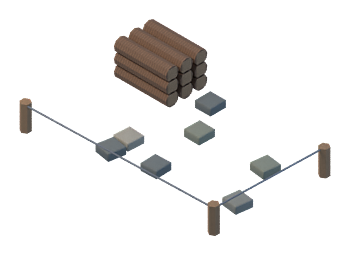
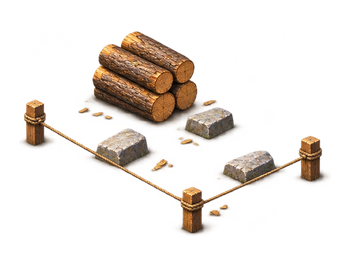
art(valoria): align the worksite stages and Corona HUD with the illustrated sawmill
Fit the actual 1036:260 and 1665:260 painted frames, use the authored wide material for details, and keep the player and wallet together on rotation. Use HUD bounds for world label visibility. Keep sprite footprints, pivots, state transitions and game rules intact.

Changed region(s): [[0.0571, 0.0549, 0.9429, 0.9333]]

diff --git a/Unity/Assets/Experimentos/ValoriaModular25D/Scripts/Modular25DInterface.cs b/Unity/Assets/Experimentos/ValoriaModular25D/Scripts/Modular25DInterface.cs
@@ -31,7 +31,7 @@ namespace Eldoria.Experimentos.ValoriaModular25D
         private static readonly Color32 Green = new Color32(80, 209, 195, 255);
         private static readonly Color32 Red = new Color32(184, 84, 120, 255);
 
-        private static Sprite slatePlate, parchmentPlate, actionPlate, resourcePlate, portraitPlate, burgundyPlate, identityPlate, navPlate, topVelvetPlate, activityPanelPlate;
+        private static Sprite slatePlate, actionPlate, resourcePlate, portraitPlate, burgundyPlate, navPlate, topVelvetPlate, activityPanelPlate;
         private static Sprite woodIcon, stoneIcon, foodIcon, hammerIcon, cityIcon, taskIcon;
         private static Texture2D originalIconAtlas;
         private Modular25DGameplay gateway;
@@ -77,9 +77,8 @@ namespace Eldoria.Experimentos.ValoriaModular25D
             hudCanvas.pixelPerfect=true;
             var scaler = root.GetComponent<CanvasScaler>();
             scaler.uiScaleMode = CanvasScaler.ScaleMode.ScaleWithScreenSize;
-            scaler.referenceResolution = new Vector2(390f, 844f);
-            scaler.screenMatchMode = CanvasScaler.ScreenMatchMode.MatchWidthOrHeight;
-            scaler.matchWidthOrHeight = .3f;
+            scaler.referenceResolution = new Vector2(390f, 390f);
+            scaler.screenMatchMode = CanvasScaler.ScreenMatchMode.Expand;
             var rootTransform = root.transform;
 
             // One continuous 46-point ribbon shares player name and wallet.
@@ -92,11 +91,11 @@ namespace Eldoria.Experimentos.ValoriaModular25D
                 new Vector2(.5f,0f),new Vector2(.5f,0f),
                 Vector2.zero,new Vector2(365f,1.2f));
             topRibbonHairline.GetComponent<Image>().color=new Color32(175,132,72,55);
-            identity = Plate("Valoria identity", rootTransform, identityPlate,
+            identity = Plate("Valoria identity", rootTransform, null,
                 new Vector2(0f, 1f), new Vector2(0f, 1f), new Vector2(6f, -6f),
                 new Vector2(102f, 44f));
             var sigil = Plate("Sir Aldric portrait bezel", identity, portraitPlate,
-                new Vector2(0f, .5f), new Vector2(.5f, .5f), new Vector2(18f,0f),
+                new Vector2(0f, .5f), new Vector2(.5f, .5f), new Vector2(24f,0f),
                 new Vector2(35f,35f));
             var aldricAvatar=Resources.Load<Sprite>(
                 "ValoriaModular25D/UI/UmbralII/aldric_avatar");
@@ -111,13 +110,13 @@ namespace Eldoria.Experimentos.ValoriaModular25D
             // Real PlayerState.PlayerName is the user-selected name. Valoria
             // remains a fallback only for an older unnamed test save.
             title = Label("VALORIA", identity, 14, true, WarmWhite, TextAnchor.MiddleLeft,
-                new Vector2(26f,7f),new Vector2(42f,22f));
+                new Vector2(26f,6f),new Vector2(42f,23f));
             title.resizeTextForBestFit=true;
             title.resizeTextMinSize=10;
             title.resizeTextMaxSize=14;
-            title.horizontalOverflow=HorizontalWrapMode.Overflow;
+            title.horizontalOverflow=HorizontalWrapMode.Wrap;
             level = Label("BAST. 1", identity, 9, false, PaleGold, TextAnchor.MiddleLeft,
-                new Vector2(26f,-10f),new Vector2(42f,16f));
+                new Vector2(26f,-9f),new Vector2(42f,16f));
             // SourceSans line metrics exceed the 20px legacy plate: Truncate
             // silently discarded all small-glyph geometry in actual WebGL.
             // Let ascenders/descenders use the designed clear lower half.
@@ -138,30 +137,30 @@ namespace Eldoria.Experimentos.ValoriaModular25D
             // camera and point only to canonical, currently implemented UI.
             bastionTag=ButtonPlate("Bastion world nameplate",rootTransform,"BASTIÓN · I",
                 slatePlate,new Vector2(.5f,.5f),new Vector2(.5f,.5f),
-                Vector2.zero,new Vector2(110f,49f),OpenStatus).GetComponent<RectTransform>();
+                Vector2.zero,new Vector2(slatePlate.rect.width * 44f / slatePlate.rect.height, 44f),OpenStatus).GetComponent<RectTransform>();
             bastionTagText=bastionTag.GetComponentInChildren<Text>(true);
-            bastionTagText.fontSize=11;
+            bastionTagText.fontSize=14;
             bastionTagText.color=PaleGold;
             // Building nameplates are wayfinding, NOT a second enormous
             // turquoise Build CTA. The actual action stays in the real modal.
             // Keep the two original art plates short/readable in world-space.
             var keepGlyph=Plate("Bastion nameplate original icon",bastionTag,cityIcon,
                 new Vector2(.5f,.5f),new Vector2(.5f,.5f),
-                new Vector2(-42f,0f),new Vector2(18f,18f));
+                new Vector2(-48f,0f),new Vector2(23f,23f));
             keepGlyph.GetComponent<Image>().preserveAspect=true;
             bastionTagText.rectTransform.anchoredPosition=new Vector2(10f,0f);
-            bastionTagText.rectTransform.sizeDelta=new Vector2(78f,28f);
+            bastionTagText.rectTransform.sizeDelta=new Vector2(100f,28f);
             sawmillTag=ButtonPlate("Sawmill world nameplate",rootTransform,"ASERRADERO",
                 slatePlate,new Vector2(.5f,.5f),new Vector2(.5f,.5f),
-                Vector2.zero,new Vector2(112f,50f),OpenSawmill).GetComponent<RectTransform>();
+                Vector2.zero,new Vector2(slatePlate.rect.width * 44f / slatePlate.rect.height, 44f),OpenSawmill).GetComponent<RectTransform>();
             sawmillTagText=sawmillTag.GetComponentInChildren<Text>(true);
-            sawmillTagText.fontSize=11;
+            sawmillTagText.fontSize=14;
             sawmillTagText.color=PaleGold;
             sawmillTagText.rectTransform.anchoredPosition=new Vector2(12f,0f);
-            sawmillTagText.rectTransform.sizeDelta=new Vector2(80f,30f);
+            sawmillTagText.rectTransform.sizeDelta=new Vector2(100f,30f);
             var sawmillGlyph=Plate("Sawmill nameplate original icon",sawmillTag,hammerIcon,
                 new Vector2(.5f,.5f),new Vector2(.5f,.5f),
-                new Vector2(-43f,0f),new Vector2(18f,18f));
+                new Vector2(-48f,0f),new Vector2(23f,23f));
             sawmillGlyph.GetComponent<Image>().preserveAspect=true;
             // Visible AFTER the successful Build auto-dismiss: real progress
             // belongs on the construction parcel, not a persistent modal.
@@ -209,17 +208,17 @@ namespace Eldoria.Experimentos.ValoriaModular25D
                 new Vector2(0f,.5f),new Vector2(0f,.5f),
                 new Vector2(54f,0f),new Vector2(246f,185f));
             activityTitle=Label("TAREAS",activityDrawer,16,true,PaleGold,
-                TextAnchor.MiddleCenter,new Vector2(0f,69f),new Vector2(198f,25f));
+                TextAnchor.MiddleCenter,new Vector2(0f,49f),new Vector2(198f,25f));
             objective.SetParent(activityDrawer,false);
             objective.anchorMin=objective.anchorMax=new Vector2(.5f,.5f);
             objective.pivot=new Vector2(.5f,.5f);
             objective.anchoredPosition=new Vector2(0f,9f);
             activityProgress=Label("ASERRADERO",activityDrawer,13,false,WarmWhite,
-                TextAnchor.MiddleCenter,new Vector2(0f,-48f),new Vector2(198f,24f));
+                TextAnchor.MiddleCenter,new Vector2(0f,-39f),new Vector2(198f,24f));
             activityProgress.verticalOverflow=VerticalWrapMode.Overflow;
             activityTrack=Plate("Activity real construction track",activityDrawer,null,
                 new Vector2(.5f,.5f),new Vector2(.5f,.5f),
-                new Vector2(0f,-67f),new Vector2(178f,7f));
+                new Vector2(0f,-59f),new Vector2(178f,7f));
             activityTrack.GetComponent<Image>().color=new Color32(20,13,38,232);
             activityFill=Plate("Activity canonical construction fill",activityTrack,null,
                 new Vector2(0f,.5f),new Vector2(0f,.5f),
@@ -236,7 +235,7 @@ namespace Eldoria.Experimentos.ValoriaModular25D
 
             // Context sheet uses warm architectural parchment, a real sprite
             // from the experiment, and original data. Not a generic modal.
-            sheet = Plate("Sawmill parchment sheet", rootTransform, parchmentPlate,
+            sheet = Plate("Sawmill parchment sheet", rootTransform, activityPanelPlate,
                 new Vector2(.5f, 0f), new Vector2(.5f, 0f), new Vector2(0f, 110f),
                 new Vector2(355f, 244f));
             buildingSheet = sheet.gameObject;
@@ -246,12 +245,12 @@ namespace Eldoria.Experimentos.ValoriaModular25D
                 new Vector2(-30f, 61f), new Vector2(200f, 17f));
             AccentHairline("Divider", sheet, AntiqueBrass,
                 new Vector2(0f, 44f), new Vector2(270f, 1.5f));
-            var previewPlate = Plate("Architectural preview", sheet, portraitPlate,
-                new Vector2(.5f, .5f), new Vector2(.5f, .5f), new Vector2(-84f, -6f),
+            var previewPlate = Plate("Architectural preview", sheet, null,
+                new Vector2(.5f, .5f), new Vector2(.5f, .5f), new Vector2(-88f, -2f),
                 new Vector2(96f, 99f));
             var view = Plate("Real illustrated sawmill", previewPlate, null,
                 new Vector2(.5f, .5f), new Vector2(.5f, .5f), Vector2.zero,
-                new Vector2(93f, 94f));
+                new Vector2(103f, 100f));
             var preview = view.GetComponent<Image>();
             preview.sprite = Modular25DArt.Sawmill();
             preview.preserveAspect = true;
@@ -284,7 +283,7 @@ namespace Eldoria.Experimentos.ValoriaModular25D
             constructionProgressRoot.gameObject.SetActive(false);
             action = ButtonPlate("Execute canonical Build command", sheet, "CONSTRUIR",
                 actionPlate, new Vector2(.5f, .5f), new Vector2(.5f, .5f),
-                new Vector2(0f, -80f), new Vector2(118f, 53f),
+                new Vector2(0f, -80f), new Vector2(actionPlate.rect.width * 44f / actionPlate.rect.height, 44f),
                 () =>
                 {
                     // Only a successful real LocalGateway construction
@@ -296,10 +295,11 @@ namespace Eldoria.Experimentos.ValoriaModular25D
                     if(result.Ok)ClosePanels();
                 });
             actionLabel = action.GetComponentInChildren<Text>();
-            actionLabel.fontSize=12;
+            actionLabel.color=WarmWhite;
+            actionLabel.fontSize=15;
             actionLabel.resizeTextForBestFit=true;
             actionLabel.resizeTextMinSize=10;
-            actionLabel.resizeTextMaxSize=14;
+            actionLabel.resizeTextMaxSize=15;
             actionLabel.verticalOverflow=VerticalWrapMode.Overflow;
             var close = ButtonPlate("Close sawmill", sheet, "×", navPlate,
                 new Vector2(1f, 1f), new Vector2(.5f, .5f),
@@ -309,7 +309,7 @@ namespace Eldoria.Experimentos.ValoriaModular25D
             closeText.fontSize = 25;
             buildingSheet.SetActive(false);
 
-            statusSheet=Plate("Valoria state parchment",rootTransform,parchmentPlate,
+            statusSheet=Plate("Valoria state parchment",rootTransform,activityPanelPlate,
                 new Vector2(.5f,0f),new Vector2(.5f,0f),
                 new Vector2(0f,112f),new Vector2(330f,170f));
             Label("ESTADO DE VALORIA",statusSheet,23,true,WarmWhite,TextAnchor.MiddleCenter,
@@ -505,7 +505,7 @@ namespace Eldoria.Experimentos.ValoriaModular25D
                 sawmillTagText.rectTransform.anchoredPosition=
                     new Vector2(12f,constructing?3f:0f);
                 sawmillTagText.rectTransform.sizeDelta=
-                    new Vector2(80f,constructing?23f:30f);
+                    new Vector2(100f,constructing?23f:30f);
                 if(worldProgressTrack!=null)
                     worldProgressTrack.gameObject.SetActive(false);
                 if(activityTitle!=null)
@@ -626,27 +626,31 @@ namespace Eldoria.Experimentos.ValoriaModular25D
             var cam=world.ViewCamera;
             var screen=cam.WorldToScreenPoint(worldPosition);
             var safe=Screen.safeArea;
-            var inside=screen.z>0&&
-                screen.x>safe.xMin+68f&&screen.x<safe.xMax-68f&&
-                screen.y>safe.yMin+105f&&screen.y<safe.yMax-125f;
-            if(nameplate.gameObject.activeSelf!=inside&&!modalOpen)
-                nameplate.gameObject.SetActive(inside);
-            if(modalOpen)
-            {
-                if(nameplate.gameObject.activeSelf)nameplate.gameObject.SetActive(false);
-                return;
-            }
-            if(!inside)return;
-            Vector2 local;
-            if(RectTransformUtility.ScreenPointToLocalPointInRectangle(
-                canvasRect,new Vector2(screen.x,screen.y),null,out local))
-            {
-                nameplate.anchorMin=nameplate.anchorMax=new Vector2(.5f,.5f);
-                nameplate.pivot=new Vector2(.5f,.5f);
+            float scale=hudCanvas.scaleFactor;
+            var size=nameplate.rect.size*scale;
+            var bounds=new Rect((Vector2)screen-size*.5f,size);
+            bool visible=!modalOpen && screen.z>0f &&
+                safe.Contains(bounds.min) && safe.Contains(bounds.max) &&
+                !OverlapsControl(bounds,topRibbon) && !OverlapsControl(bounds,activityHandle) &&
+                !OverlapsControl(bounds,statusDock) && !OverlapsControl(bounds,center) &&
+                !OverlapsControl(bounds,inspect) && !OverlapsControl(bounds,activityDrawer);
+            if(nameplate.gameObject.activeSelf!=visible)
+                nameplate.gameObject.SetActive(visible);
+            if(visible && RectTransformUtility.ScreenPointToLocalPointInRectangle(
+                canvasRect,screen,null,out var local))
                 nameplate.anchoredPosition=local;
-            }
         }
 
+        // All controls share the overlay canvas. Test their on-screen bounds
+        // so rotating or using a Retina framebuffer keeps the same clearance.
+        private static bool OverlapsControl(Rect bounds,RectTransform control)
+        {
+            if(!control || !control.gameObject.activeInHierarchy)return false;
+            Rect rect=control.rect;
+            Vector2 min=RectTransformUtility.WorldToScreenPoint(null,control.TransformPoint(rect.min));
+            Vector2 max=RectTransformUtility.WorldToScreenPoint(null,control.TransformPoint(rect.max));
+            return bounds.Overlaps(Rect.MinMaxRect(min.x,min.y,max.x,max.y));
+        }
 
         // Six stable slots at the lower edge. Only slots 3, 4 and 5
         // currently have real actions (Estado, Ciudad, Obras). Slots
@@ -703,23 +707,25 @@ namespace Eldoria.Experimentos.ValoriaModular25D
             // physical pixels and the entire strip hugs the safe top edge.
             topRibbon.anchorMin=topRibbon.anchorMax=new Vector2(.5f,1f);
             topRibbon.pivot=new Vector2(.5f,1f);
+            float stripWidth=Mathf.Min(390f,safeWidth);
+            float stripLeft=left+(safeWidth-stripWidth)*.5f;
             topRibbon.anchoredPosition=new Vector2((left-right)*.5f,-top);
-            topRibbon.sizeDelta=new Vector2(safeWidth-6f,46f);
-            topRibbonHairline.sizeDelta=new Vector2(safeWidth-18f,1.2f);
+            topRibbon.sizeDelta=new Vector2(stripWidth-6f,46f);
+            topRibbonHairline.sizeDelta=new Vector2(stripWidth-18f,1.2f);
 
             identity.anchorMin=identity.anchorMax=new Vector2(0f,1f);
             identity.pivot=new Vector2(0f,1f);
-            identity.anchoredPosition=new Vector2(left+6f,-top-1f);
+            identity.anchoredPosition=new Vector2(stripLeft+6f,-top-1f);
             identity.sizeDelta=new Vector2(102f,44f);
             resourceRow.anchorMin=resourceRow.anchorMax=new Vector2(1f,1f);
             resourceRow.pivot=new Vector2(1f,1f);
-            resourceRow.anchoredPosition=new Vector2(-right-6f,-top-3f);
+            resourceRow.anchoredPosition=new Vector2(stripLeft+stripWidth-width-6f,-top-3f);
             // The real 1280x720 Unity PlayMode found the old landscape
             // 335pt resource row stretched 580x260 source capsules by
             // 27%. Cap all orientations at 270pt. This is SMALLER,
             // preserves premium artist proportions and liberates map.
             float economyWidth=Mathf.Min(270f,
-                Mathf.Max(168f,safeWidth-119f));
+                Mathf.Max(168f,stripWidth-119f));
             resourceRow.sizeDelta=new Vector2(economyWidth,40f);
             float chipWidth=(economyWidth-12f)/3f;
             float sourceAspect=resourcePlate.rect.height/
@@ -740,16 +746,17 @@ namespace Eldoria.Experimentos.ValoriaModular25D
                     " original resource art") as RectTransform;
                 if(art!=null)
                 {
-                    art.anchoredPosition=new Vector2(6f,0f);
+                    art.anchoredPosition=new Vector2(8f,0f);
                     art.sizeDelta=new Vector2(d,d);
                 }
                 var number=i==0?woodValue:i==1?stoneValue:foodValue;
                 if(number!=null)
                 {
-                    number.rectTransform.anchoredPosition=new Vector2(-5f,0f);
+                    number.rectTransform.anchoredPosition=new Vector2(-12f,0f);
                     number.rectTransform.sizeDelta=new Vector2(
-                        Mathf.Clamp(chipWidth-d-12f,26f,46f),31f);
+                        Mathf.Clamp(chipWidth-d-19f,22f,46f),31f);
                     number.fontSize=chipWidth<82f?14:16;
+                    number.resizeTextMaxSize=number.fontSize;
                 }
             }
 
@@ -774,18 +781,19 @@ namespace Eldoria.Experimentos.ValoriaModular25D
             activityDrawer.pivot=new Vector2(0f,.5f);
             activityDrawer.anchoredPosition=new Vector2(left+51f,wide?-4f:0f);
             activityDrawer.sizeDelta=wide?new Vector2(243f,173f):
-                new Vector2(246f,185f);
+                new Vector2(246f,171f);
             objective.anchorMin=objective.anchorMax=new Vector2(.5f,.5f);
             objective.pivot=new Vector2(.5f,.5f);
             objective.anchoredPosition=new Vector2(0f,wide?8f:9f);
-            objective.sizeDelta=new Vector2(185f,72f);
+            objective.sizeDelta=new Vector2(186f,65f);
+            objective.GetComponent<Image>().preserveAspect=true;
 
             if(wide)
             {
                 sheet.anchorMin=sheet.anchorMax=new Vector2(1f,.5f);
                 sheet.pivot=new Vector2(1f,.5f);
                 sheet.anchoredPosition=new Vector2(-12f-right,2f);
-                sheet.sizeDelta=new Vector2(326f,240f);
+                sheet.sizeDelta=new Vector2(346f,240f);
                 noticeRoot.anchorMin=noticeRoot.anchorMax=new Vector2(0f,1f);
                 noticeRoot.pivot=new Vector2(0f,1f);
                 noticeRoot.anchoredPosition=new Vector2(left+12f,-top-67f);
@@ -793,7 +801,7 @@ namespace Eldoria.Experimentos.ValoriaModular25D
                 statusSheet.anchorMin=statusSheet.anchorMax=new Vector2(1f,.5f);
                 statusSheet.pivot=new Vector2(1f,.5f);
                 statusSheet.anchoredPosition=new Vector2(-12f-right,2f);
-                statusSheet.sizeDelta=new Vector2(328f,170f);
+                statusSheet.sizeDelta=new Vector2(328f,228f);
             }
             else
             {
@@ -810,7 +818,7 @@ namespace Eldoria.Experimentos.ValoriaModular25D
                 statusSheet.pivot=new Vector2(.5f,0f);
                 statusSheet.anchoredPosition=new Vector2(0f,bottom+95f);
                 statusSheet.sizeDelta=new Vector2(
-                    Mathf.Min(330f,safeWidth-28f),170f);
+                    Mathf.Min(330f,safeWidth-28f),229f);
             }
             lastWidth=w;
             lastHeight=h;
@@ -828,6 +836,7 @@ namespace Eldoria.Experimentos.ValoriaModular25D
             var chip=Plate("Resource "+caption,parent,resourcePlate,
                 new Vector2(0f,.5f),new Vector2(0f,.5f),
                 new Vector2(index*123f,0f),new Vector2(117f,52f));
+            chip.GetComponent<Image>().color=new Color32(158,149,165,255);
             var image=Plate(caption+" original resource art",chip,art,
                 new Vector2(0f,.5f),new Vector2(0f,.5f),
                 new Vector2(10f,0f),new Vector2(42f,42f));
@@ -989,12 +998,10 @@ namespace Eldoria.Experimentos.ValoriaModular25D
             if(slatePlate!=null)return;
             topVelvetPlate=NeedCorona("top_velvet_ribbon");
             activityPanelPlate=NeedCorona("activity_panel_wide");
-            identityPlate=NeedCorona("identity_crest");
             slatePlate=NeedCorona("world_rune");
             resourcePlate=NeedCorona("resource_siglet");
             portraitPlate=NeedCorona("portrait_ring");
             navPlate=NeedCorona("nav_medallion");
-            parchmentPlate=NeedCorona("panel_obsidian");
             actionPlate=NeedCorona("action_arcane");
             burgundyPlate=NeedCorona("objective_rune");
             woodIcon=NeedCorona("icon_wood");
@@ -1050,3 +1057,4 @@ namespace Eldoria.Experimentos.ValoriaModular25D
         }
     }
 }
+
